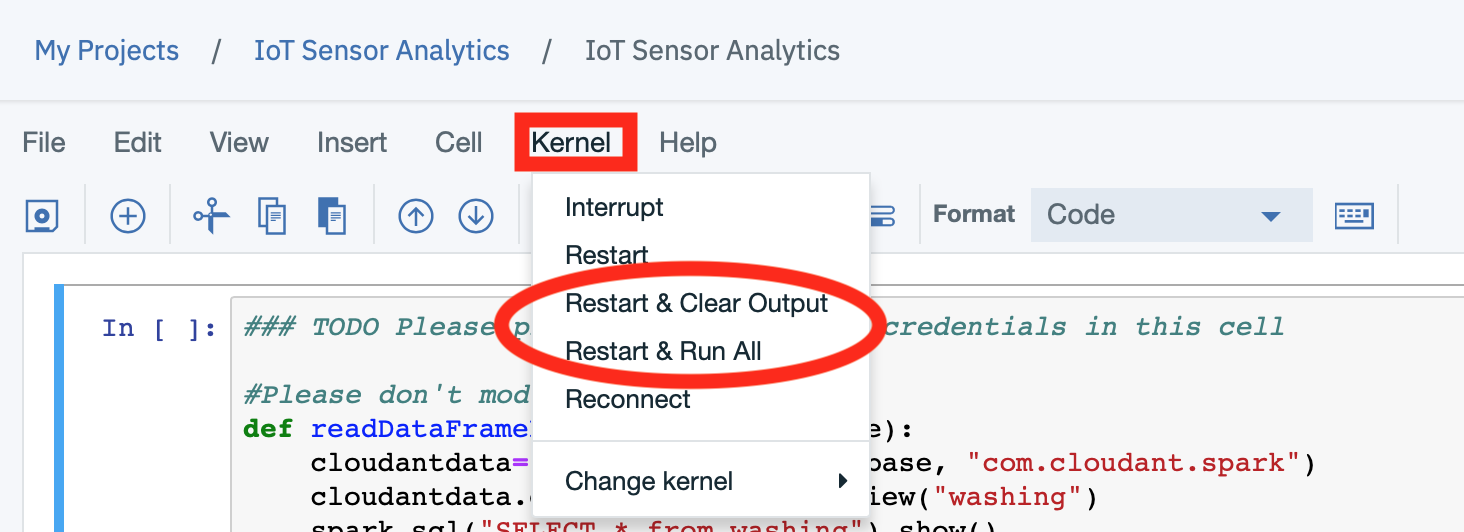
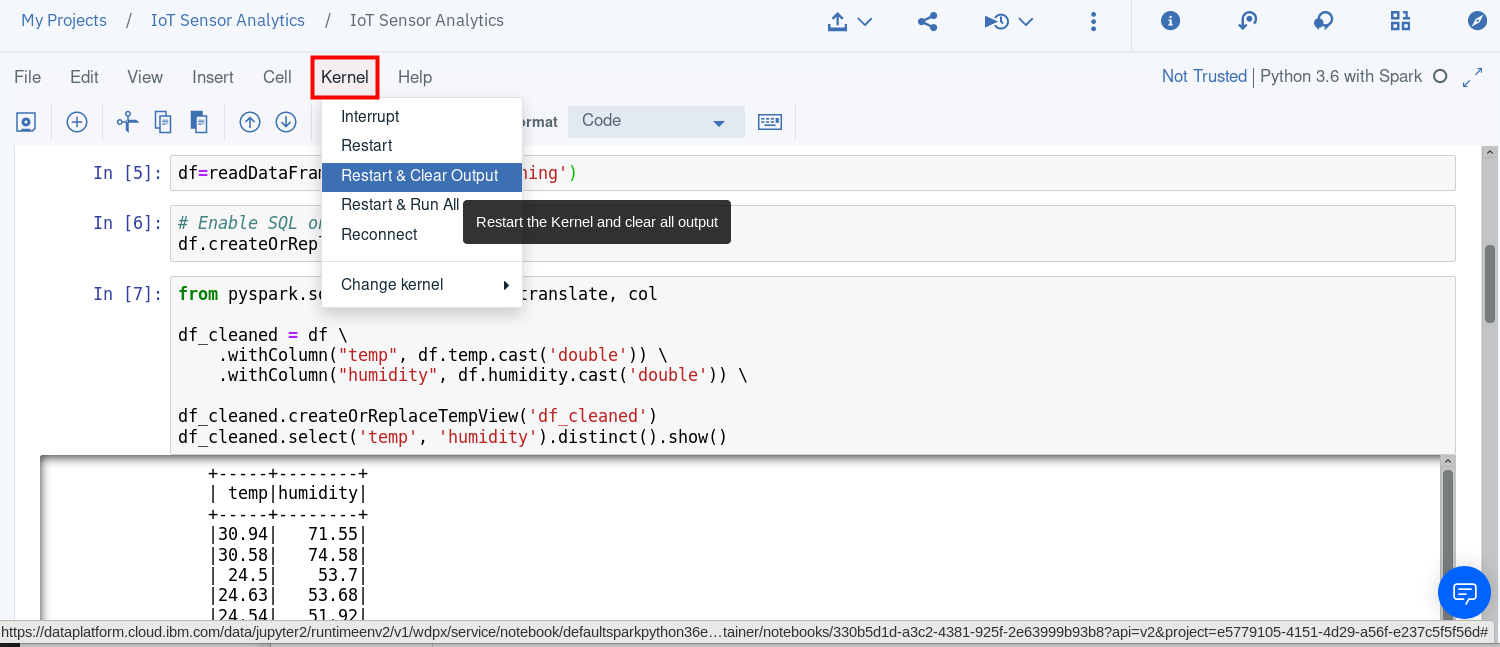
Jupyter Notebook Apache Bahir updates

diff --git a/en/part4/JUPYTER.md b/en/part4/JUPYTER.md
@@ -39,35 +39,41 @@ Before we can read the ESP8266 IoT temperature and humidity data into a Jupyter 
 
 ### Step 2 - Loading Cloudant data into the Jupyter notebook
 
-When using the lite account on the IBM Cloud there are some restrictions on services.  One restriction is a limit on the number of requests that can be run in a second (5 database actions per second).  To overcome this we need to ensure that data is extracted from Cloudant at a suitable rate, not to hit this limit.  The code below uses the **jsonstore.rdd.partitions** configuration option to ensure this limit is not exceeded.
+When using the lite account on the IBM Cloud there are some restrictions on services.  One restriction is a limit on the number of requests that can be run in a second (5 database actions per second).  To overcome this we need to ensure that data is extracted from Cloudant at a suitable rate, not to hit this limit.  The code below uses the **Apache Bahir** package to ensure this limit is not exceeded.
 
 - Return to the Watson Studio browser tab and open the **IoT Sensor Analytics** notebook. ![Watson Studio Assets](screenshots/WatsonStudio-Notebook-ESP8266.png)
 
 - Make certain you are in **Edit** mode by clicking on the Pencil icon. ![Watson Studio Edit mode](screenshots/WatsonStudio-Notebook-edit.png)
-- Copy the following code into the first cell in the notebook and update the credentials with the values from your cloudant database credentials (created in **step 1**).  The values are from the host, username and password properties in the credentials:
+- Copy the following code into the first cell in the notebook.
+```python
+import pixiedust
+pixiedust.installPackage("org.apache.bahir:spark-sql-cloudant_2.11:0")
+```
+- In the second and third cells, we will initialize the Spark session.
+```python
+from pyspark.sql import SparkSession
+```
+and
+```python
+spark = SparkSession.builder.getOrCreate()
+```
+- Update the credentials with the values from your cloudant database credentials (created in **step 1**).  The values are from the host, username and password properties in the credentials:
 
 ```python
 ### TODO Please provide your Cloudant credentials in this cell
-
-#Please don't modify this function
 def readDataFrameFromCloudant(database):
-    cloudantdata=spark.read.load(database, "com.cloudant.spark")
-    cloudantdata.createOrReplaceTempView("washing")
-    spark.sql("SELECT * from washing").show()
-    return cloudantdata
 
-spark = SparkSession\
-    .builder\
-    .appName("Cloudant Spark SQL Example in Python using temp tables")\
-    .config("cloudant.host",'XXXX')\
-    .config("cloudant.username", 'XXXX')\
-    .config("cloudant.password",'XXXX')\
-    .config("jsonstore.rdd.partitions", 1)\
-    .getOrCreate()
+  cloudantdata = spark.read.format("org.apache.bahir.cloudant")\
+    .option("cloudant.host",'XXXX-bluemix.cloudant.com')\
+    .option("cloudant.username", 'XXXX-bluemix')\
+    .option("cloudant.password",'XXXX')\
+    .load(database)
+
+  return cloudantdata
 ```
 
-- Press the **Run** button in the toolbar to run the cell ![Run first cell](screenshots/WatsonStudio-cell1.png)
-- Move the focus to the next cell and copy in the following python, which calls the function defined in the first cell to load the data from Cloudant training database *(this assumes you used the database name **training** when capturing training data, if not, modify the database name)*:
+- Press the **Run** button in the toolbar to run the cells ![Run first cell](screenshots/WatsonStudio-cell1.png)
+- Move the focus to the next cell and copy in the following python, which calls the function defined in the cell to load the data from Cloudant training database *(this assumes you used the database name **training** when capturing training data, if not, modify the database name):
 
 ```python
 df=readDataFrameFromCloudant('training')
@@ -75,7 +81,7 @@ df=readDataFrameFromCloudant('training')
 
 Run the cell by pressing the run button in the toolbar.  You should see the data from the database.  You can validate that you have the correct data format by checking you have the **class**, **humidity**, **index** and **temperature** columns in the loaded data: ![Load data in to notebook](screenshots/WatsonStudio-cell2.png)
 
-If you want to clear out the data created by previously run steps then you can use the kernel menu option to clear out and restart the notebook, or clear out and run all steps: ![restarting a notebook](screenshots/WatsonStudio-kernel-options.png)
+If you want to clear out the data created by previously run steps then you can use the **Kernel** menu option to clear out and restart the notebook, or clear out and run all steps: ![restarting a notebook](screenshots/WatsonStudio-kernel-options.png)
 
 If you clear output then you can select the first cell and press run, which will run the cell then move to the next cell in the notebook.  Keep pressing run to run each cell in turn, ensure you wait for each cell to complete (At the left side of the cell the indicator **[*]** turns to **[n]**, where n is a number) before running the next step.
 
@@ -90,11 +96,23 @@ Within the notebook you are able to manipulate the data. In this section we will
 df.createOrReplaceTempView('df')
 ```
 
+- The temperature and humidity data is imported as strings, so we will convert the columns to doubles.
+
+```python
+from pyspark.sql.functions import translate, col
+
+df_cleaned = df \
+    .withColumn("temp", df.temp.cast('double')) \
+    .withColumn("humidity", df.humidity.cast('double')) \
+
+df_cleaned.createOrReplaceTempView('df_cleaned')
+df_cleaned.select('temp', 'humidity').distinct().show()
+```
 - Now we will create a new data frame for each training class.  In the next cell enter then run the following:
 
 ```python
-df_class_0 = spark.sql('select time, temp, humidity, class from df where class = 0')
-df_class_1 = spark.sql('select time, temp, humidity, class from df where class = 1')
+df_class_0 = spark.sql('select time, temp, humidity, class from df_cleaned where class = 0')
+df_class_1 = spark.sql('select time, temp, humidity, class from df_cleaned where class = 1')
 df_class_0.createOrReplaceTempView('df_class_0')
 df_class_1.createOrReplaceTempView('df_class_1')
 ```
@@ -111,13 +129,13 @@ df_class_0.select('temp', 'humidity').distinct().show()
 - You can verify the database schema:
 
 ```python
-df.printSchema()
+df_cleaned.printSchema()
 ```
 
 - You can verify the number of records available for each training class and if necessary correct any skew in the number of records available for each class:
 
 ```python
-spark.sql('select class, count(class) from df group by class').show()
+spark.sql('select class, count(class) from df_cleaned group by class').show()
 ```
 
 If your training data had double the number of entries for class 0 as class 1 then you can create an adjusted data frame to use for training using the following code : ```df_skew_fixed = df_class_0.sample(False, 0.5).union(df_class_1)```, which selects 50% of the records for class 0 and joins them with the records for class 1, so now both classes will have a similar number of records.  However, this should not be necessary as we ensured we captured a similar number of records for each class when training.
@@ -162,8 +180,8 @@ vectorAssembler = VectorAssembler(inputCols=["humidity","temp"],
                                   outputCol="features")
 lr = LogisticRegression(maxIter=1000).setLabelCol("class")
 pipeline = Pipeline(stages=[vectorAssembler, lr ])
-model = pipeline.fit(df)
-result = model.transform(df)
+model = pipeline.fit(df_cleaned)
+result = model.transform(df_cleaned)
 ```
 
 - Once the model is trained we need to extract the model parameters (coefficients and the intercept values in the case of logistic regression), so we can implement the model on the ESP8266.  You will need these values for the next part of the workshop, so make a note of them now:
@@ -192,9 +210,15 @@ binEval.evaluate(result)
 
 ```python
 # test the model
-#re-read data from cloudant
+# re-read data from cloudant
 new_df = readDataFrameFromCloudant('training')
-result = model.transform(new_df)
+new_df_cleaned = new_df \
+    .withColumn("temp", new_df.temp.cast('double')) \
+    .withColumn("humidity", new_df.humidity.cast('double')) \
+
+new_df_cleaned.createOrReplaceTempView('df_cleaned')
+
+result = model.transform(new_df_cleaned)
 result.createOrReplaceTempView('result')
 spark.sql("select humidity, temp, class, prediction from result").show(50)
 ```
@@ -211,7 +235,7 @@ spark.sql("select humidity, temp, prediction from result").show(50)
 
 ## Sample solution
 
-There is a sample solution for this part provided in the [notebooks](notebooks) folder.  If you have an issue and want to see the solution then within the IoT Sensor Analytics project select to add a new notebook.  Select to create a notebook from file and give the notebook a name - here **IoT Sensor Analytics - solution** has been used.  This assumes you have the file locally on your machine.  Select choose file and locate the **IoT Sensor Analytics.ipynb** file.  Finally ensure you have the Default Spark Python 3.5 XS runtime selected then press **Create Notebook**
+There is a sample solution for this part provided in the [notebooks](notebooks) folder.  If you have an issue and want to see the solution then within the IoT Sensor Analytics project select to add a new notebook.  Select to create a notebook from file and give the notebook a name - here **IoT Sensor Analytics - solution** has been used.  This assumes you have the file locally on your machine.  Select choose file and locate the **IoT Sensor Analytics.ipynb** file.  Finally ensure you have the Default Spark Python 3.6 XS runtime selected then press **Create Notebook**
   ![Import solution](screenshots/WatsonStudio-import-solution.png)
 
 Alternatively, you can select to import from URL and set the URL to : [https://raw.githubusercontent.com/binnes/esp8266Workshop/master/en/part4/notebooks/IoT%20Sensor%20Analytics.ipynb](https://raw.githubusercontent.com/binnes/esp8266Workshop/master/en/part4/notebooks/IoT%20Sensor%20Analytics.ipynb)
